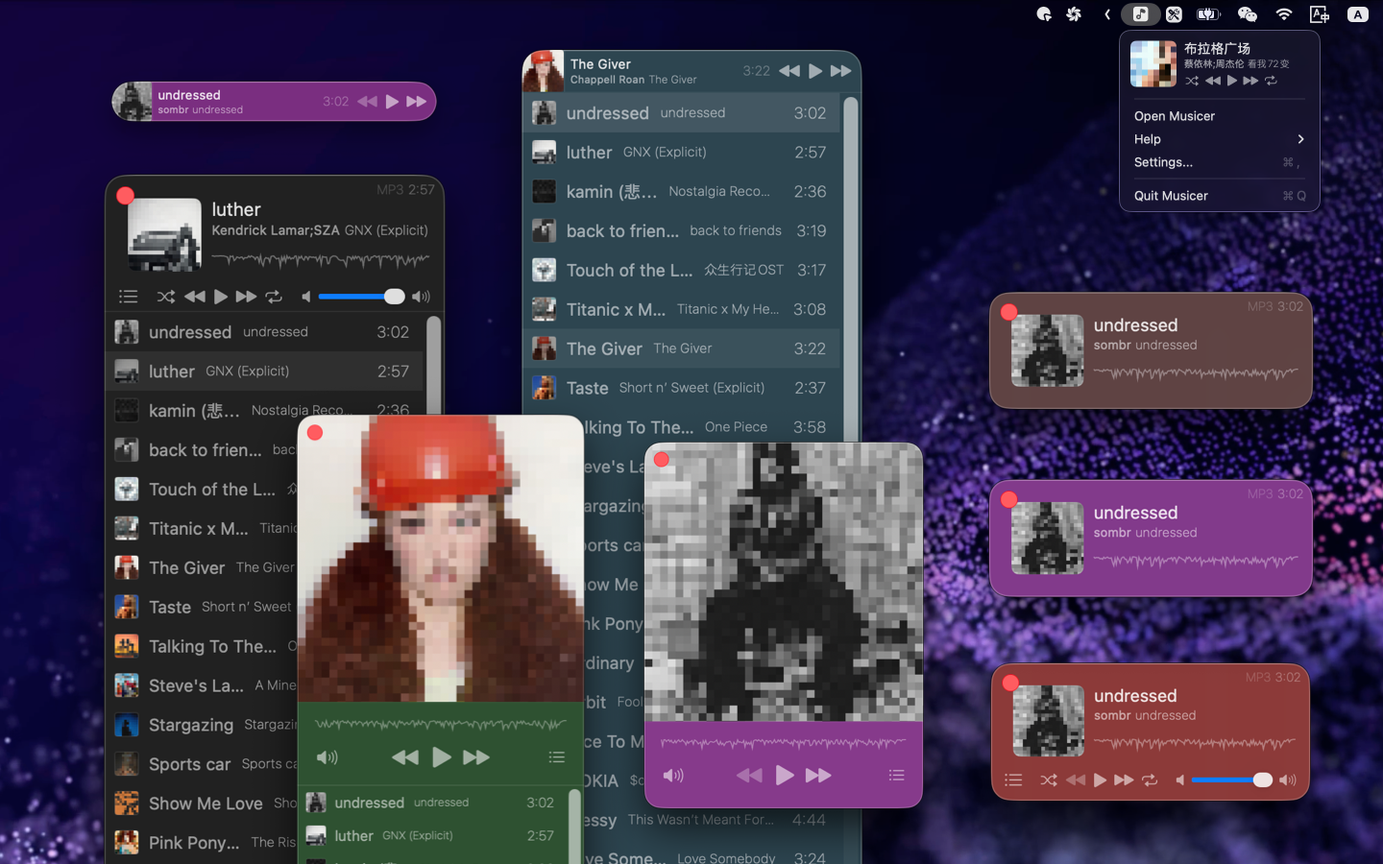
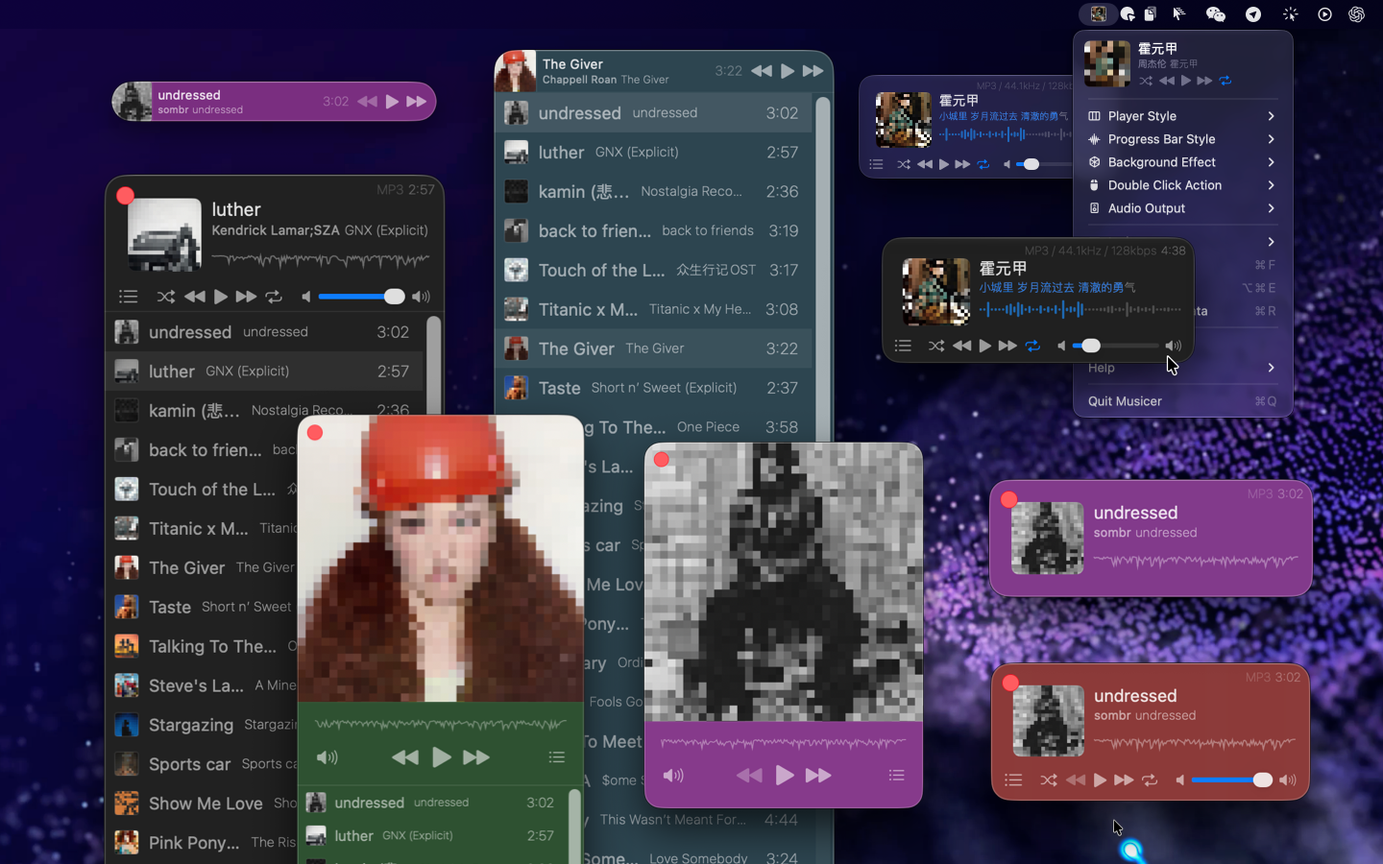
released v3.8.0 1bbac2d6a4815d051cbc2026ce11907c160a5230

diff --git a/CHANGELOG.html b/CHANGELOG.html
@@ -4,21 +4,21 @@
     <meta charset="UTF-8">
     <meta http-equiv="X-UA-Compatible" content="IE=edge">
     <meta name="viewport" content="width=device-width, initial-scale=1.0">
-    <title>Changelog Musicer v3.7.0</title>
+    <title>Changelog Musicer v3.8.0</title>
     <meta name="description" content="迷你便捷的本地音乐播放器，轻巧实用，专为播放本地音频而设计，支持多种常见音频格式，随时随地畅听您的音乐！">
     <meta name="keywords" content="music,player,local,audio,offline,waveform,mini,toolbar">
     <meta name="author" content="Kenny Wong">
-    <meta property="og:site_name" content="Musicer <sup>v3.7.0</sup>">
+    <meta property="og:site_name" content="Musicer <sup>v3.8.0</sup>">
     <meta property="og:url" content="https://wangchujiang.com/musicer/CHANGELOG.html">
     <meta property="og:image" content="https://wangchujiang.com/musicer/assets/social-preview.png">
     <meta property="og:type" content="application">
-    <meta property="og:title" content="Musicer <sup>v3.7.0</sup>">
+    <meta property="og:title" content="Musicer <sup>v3.8.0</sup>">
     <meta property="og:description" content="迷你便捷的本地音乐播放器，轻巧实用，专为播放本地音频而设计，支持多种常见音频格式，随时随地畅听您的音乐！">
     <meta property="twitter:image:src" content="https://wangchujiang.com/musicer/assets/social-preview.png">
     <meta property="twitter:site" content="@jaywcjlove">
     <meta property="twitter:creator" content="jaywcjlove">
     <meta property="twitter:card" content="summary_large_image">
-    <meta property="twitter:title" content="Musicer <sup>v3.7.0</sup> - 迷你便捷的本地音乐播放器，轻巧实用，专为播放本地音频而设计，支持多种常见音频格式，随时随地畅听您的音乐！">
+    <meta property="twitter:title" content="Musicer <sup>v3.8.0</sup> - 迷你便捷的本地音乐播放器，轻巧实用，专为播放本地音频而设计，支持多种常见音频格式，随时随地畅听您的音乐！">
     <meta property="twitter:description" content="迷你便捷的本地音乐播放器，轻巧实用，专为播放本地音频而设计，支持多种常见音频格式，随时随地畅听您的音乐！">
     <meta name="apple-itunes-app" content="app-id=6766860898">
     <link rel="stylesheet" type="text/css" href="css/main.css?v=1.34.4">
@@ -34,8 +34,8 @@
   </head>
   <body id="idoctotop"><a href="#idoctotop" class="gototop">top</a>
     <header class="header">
-      <article class="inner warpper" style="max-width:720px;"><a class="logo" href="index.html"><img alt="Musicer <sup>v3.7.0</sup> logo" src="assets/logo.png">
-<span class="title">Musicer <sup>v3.7.0</sup></span></a>
+      <article class="inner warpper" style="max-width:720px;"><a class="logo" href="index.html"><img alt="Musicer <sup>v3.8.0</sup> logo" src="assets/logo.png">
+<span class="title">Musicer <sup>v3.8.0</sup></span></a>
         <div class="content">
           <ul class="menu">
             <li><a href="index.html" target="" class="">Home</a></li>
@@ -52,6 +52,11 @@
       <markdown-style theme-auto-switch-disabled="">
         <p align="right" style="float: right; bottom: -36px; position: relative;"><a href="./CHANGELOG.zh.html">中文</a></p><!--rehype:style=float: right; bottom: -36px; position: relative;-->
         <h1 id="changelog"><a aria-hidden="true" tabindex="-1" href="#changelog" class="anchor"><span class="icon icon-link"></span></a>Changelog</h1><a target="_blank" href="https://jaywcjlove.github.io/maslink/?id=6745227444" title="Musicer for macOS"><img alt="Musicer AppStore" src="https://jaywcjlove.github.io/sb/download/macos.svg" height="51"></a>
+        <h2 id="v380"><a aria-hidden="true" tabindex="-1" href="#v380" class="anchor"><span class="icon icon-link"></span></a><a href="https://github.com/jaywcjlove/musicer/releases/tag/v3.8.0">v3.8.0</a></h2>
+        <ol>
+          <li>feat: add lyrics display in playback window.</li>
+          <li>style: optimize cover size in status bar.</li>
+        </ol>
         <h2 id="v370"><a aria-hidden="true" tabindex="-1" href="#v370" class="anchor"><span class="icon icon-link"></span></a><a href="https://github.com/jaywcjlove/musicer/releases/tag/v3.7.0">v3.7.0</a></h2>
         <ol>
           <li>feat: add liquid glass effect support for playback window.</li>

diff --git a/CHANGELOG.zh.html b/CHANGELOG.zh.html
@@ -4,21 +4,21 @@
     <meta charset="UTF-8">
     <meta http-equiv="X-UA-Compatible" content="IE=edge">
     <meta name="viewport" content="width=device-width, initial-scale=1.0">
-    <title>更新日志 Musicer v3.7.0</title>
+    <title>更新日志 Musicer v3.8.0</title>
     <meta name="description" content="迷你便捷的本地音乐播放器，轻巧实用，专为播放本地音频而设计，支持多种常见音频格式，随时随地畅听您的音乐！">
     <meta name="keywords" content="music,player,local,audio,offline,waveform,mini,toolbar">
     <meta name="author" content="Kenny Wong">
-    <meta property="og:site_name" content="Musicer <sup>v3.7.0</sup>">
+    <meta property="og:site_name" content="Musicer <sup>v3.8.0</sup>">
     <meta property="og:url" content="https://wangchujiang.com/musicer/CHANGELOG.zh.html">
     <meta property="og:image" content="https://wangchujiang.com/musicer/assets/social-preview.png">
     <meta property="og:type" content="application">
-    <meta property="og:title" content="Musicer <sup>v3.7.0</sup>">
+    <meta property="og:title" content="Musicer <sup>v3.8.0</sup>">
     <meta property="og:description" content="迷你便捷的本地音乐播放器，轻巧实用，专为播放本地音频而设计，支持多种常见音频格式，随时随地畅听您的音乐！">
     <meta property="twitter:image:src" content="https://wangchujiang.com/musicer/assets/social-preview.png">
     <meta property="twitter:site" content="@jaywcjlove">
     <meta property="twitter:creator" content="jaywcjlove">
     <meta property="twitter:card" content="summary_large_image">
-    <meta property="twitter:title" content="Musicer <sup>v3.7.0</sup> - 迷你便捷的本地音乐播放器，轻巧实用，专为播放本地音频而设计，支持多种常见音频格式，随时随地畅听您的音乐！">
+    <meta property="twitter:title" content="Musicer <sup>v3.8.0</sup> - 迷你便捷的本地音乐播放器，轻巧实用，专为播放本地音频而设计，支持多种常见音频格式，随时随地畅听您的音乐！">
     <meta property="twitter:description" content="迷你便捷的本地音乐播放器，轻巧实用，专为播放本地音频而设计，支持多种常见音频格式，随时随地畅听您的音乐！">
     <meta name="apple-itunes-app" content="app-id=6766860898">
     <link rel="stylesheet" type="text/css" href="css/main.css?v=1.34.4">
@@ -34,8 +34,8 @@
   </head>
   <body id="idoctotop"><a href="#idoctotop" class="gototop">top</a>
     <header class="header">
-      <article class="inner warpper" style="max-width:720px;"><a class="logo" href="index.html"><img alt="Musicer <sup>v3.7.0</sup> logo" src="assets/logo.png">
-<span class="title">Musicer <sup>v3.7.0</sup></span></a>
+      <article class="inner warpper" style="max-width:720px;"><a class="logo" href="index.html"><img alt="Musicer <sup>v3.8.0</sup> logo" src="assets/logo.png">
+<span class="title">Musicer <sup>v3.8.0</sup></span></a>
         <div class="content">
           <ul class="menu">
             <li><a href="index.html" target="" class="">Home</a></li>
@@ -52,6 +52,11 @@
       <markdown-style theme-auto-switch-disabled="">
         <p align="right" style="float: right; bottom: -36px; position: relative;"><a href="./CHANGELOG.html">English</a></p><!--rehype:style=float: right; bottom: -36px; position: relative;-->
         <h1 id="更新日志"><a aria-hidden="true" tabindex="-1" href="#更新日志" class="anchor"><span class="icon icon-link"></span></a>更新日志</h1><a target="_blank" href="https://jaywcjlove.github.io/maslink/?id=6745227444" title="Musicer for macOS"><img alt="Musicer AppStore" src="https://jaywcjlove.github.io/sb/download/macos.svg" height="51"></a>
+        <h2 id="v380"><a aria-hidden="true" tabindex="-1" href="#v380" class="anchor"><span class="icon icon-link"></span></a><a href="https://github.com/jaywcjlove/musicer/releases/tag/v3.8.0">v3.8.0</a></h2>
+        <ol>
+          <li>feat: 在播放窗口新增歌词展示功能</li>
+          <li>style: 优化状态栏封面尺寸</li>
+        </ol>
         <h2 id="v370"><a aria-hidden="true" tabindex="-1" href="#v370" class="anchor"><span class="icon icon-link"></span></a><a href="https://github.com/jaywcjlove/musicer/releases/tag/v3.7.0">v3.7.0</a></h2>
         <ol>
           <li>feat: 播放窗口支持液态玻璃效果</li>

diff --git a/terms-of-service.zh.html b/terms-of-service.zh.html
@@ -4,21 +4,21 @@
     <meta charset="UTF-8">
     <meta http-equiv="X-UA-Compatible" content="IE=edge">
     <meta name="viewport" content="width=device-width, initial-scale=1.0">
-    <title>Musicer 服务条款 Musicer v3.7.0</title>
+    <title>Musicer 服务条款 Musicer v3.8.0</title>
     <meta name="description" content="欢迎使用 Musicer！本服务条款（以下简称“条款”）规范您对 Musicer 应用（以下简称“应用”）的使用。请在使用前仔细阅读本条款。您的使用即表示您同意遵守本条款。">
     <meta name="keywords" content="music,player,local,audio,offline,waveform,mini,toolbar">
     <meta name="author" content="Kenny Wong">
-    <meta property="og:site_name" content="Musicer <sup>v3.7.0</sup>">
+    <meta property="og:site_name" content="Musicer <sup>v3.8.0</sup>">
     <meta property="og:url" content="https://wangchujiang.com/musicer/terms-of-service.zh.html">
     <meta property="og:image" content="https://wangchujiang.com/musicer/assets/social-preview.png">
     <meta property="og:type" content="application">
-    <meta property="og:title" content="Musicer <sup>v3.7.0</sup>">
+    <meta property="og:title" content="Musicer <sup>v3.8.0</sup>">
     <meta property="og:description" content="欢迎使用 Musicer！本服务条款（以下简称“条款”）规范您对 Musicer 应用（以下简称“应用”）的使用。请在使用前仔细阅读本条款。您的使用即表示您同意遵守本条款。">
     <meta property="twitter:image:src" content="https://wangchujiang.com/musicer/assets/social-preview.png">
     <meta property="twitter:site" content="@jaywcjlove">
     <meta property="twitter:creator" content="jaywcjlove">
     <meta property="twitter:card" content="summary_large_image">
-    <meta property="twitter:title" content="Musicer <sup>v3.7.0</sup> - 欢迎使用 Musicer！本服务条款（以下简称“条款”）规范您对 Musicer 应用（以下简称“应用”）的使用。请在使用前仔细阅读本条款。您的使用即表示您同意遵守本条款。">
+    <meta property="twitter:title" content="Musicer <sup>v3.8.0</sup> - 欢迎使用 Musicer！本服务条款（以下简称“条款”）规范您对 Musicer 应用（以下简称“应用”）的使用。请在使用前仔细阅读本条款。您的使用即表示您同意遵守本条款。">
     <meta property="twitter:description" content="欢迎使用 Musicer！本服务条款（以下简称“条款”）规范您对 Musicer 应用（以下简称“应用”）的使用。请在使用前仔细阅读本条款。您的使用即表示您同意遵守本条款。">
     <meta name="apple-itunes-app" content="app-id=6766860898">
     <link rel="stylesheet" type="text/css" href="css/main.css?v=1.34.4">
@@ -34,8 +34,8 @@
   </head>
   <body id="idoctotop"><a href="#idoctotop" class="gototop">top</a>
     <header class="header">
-      <article class="inner warpper" style="max-width:720px;"><a class="logo" href="index.html"><img alt="Musicer <sup>v3.7.0</sup> logo" src="assets/logo.png">
-<span class="title">Musicer <sup>v3.7.0</sup></span></a>
+      <article class="inner warpper" style="max-width:720px;"><a class="logo" href="index.html"><img alt="Musicer <sup>v3.8.0</sup> logo" src="assets/logo.png">
+<span class="title">Musicer <sup>v3.8.0</sup></span></a>
         <div class="content">
           <ul class="menu">
             <li><a href="index.html" target="" class="">Home</a></li>

diff --git a/privacy-policy.zh.html b/privacy-policy.zh.html
@@ -4,21 +4,21 @@
     <meta charset="UTF-8">
     <meta http-equiv="X-UA-Compatible" content="IE=edge">
     <meta name="viewport" content="width=device-width, initial-scale=1.0">
-    <title>隐私政策 Musicer v3.7.0</title>
+    <title>隐私政策 Musicer v3.8.0</title>
     <meta name="description" content="感谢您使用 Musicer！我们非常重视您的隐私，并承诺保护您在使用我们的工具时提供的任何个人信息。本隐私政策详细说明了我们如何收集、使用、披露和保护您的信息。">
     <meta name="keywords" content="music,player,local,audio,offline,waveform,mini,toolbar">
     <meta name="author" content="Kenny Wong">
-    <meta property="og:site_name" content="Musicer <sup>v3.7.0</sup>">
+    <meta property="og:site_name" content="Musicer <sup>v3.8.0</sup>">
     <meta property="og:url" content="https://wangchujiang.com/musicer/privacy-policy.zh.html">
     <meta property="og:image" content="https://wangchujiang.com/musicer/assets/social-preview.png">
     <meta property="og:type" content="application">
-    <meta property="og:title" content="Musicer <sup>v3.7.0</sup>">
+    <meta property="og:title" content="Musicer <sup>v3.8.0</sup>">
     <meta property="og:description" content="感谢您使用 Musicer！我们非常重视您的隐私，并承诺保护您在使用我们的工具时提供的任何个人信息。本隐私政策详细说明了我们如何收集、使用、披露和保护您的信息。">
     <meta property="twitter:image:src" content="https://wangchujiang.com/musicer/assets/social-preview.png">
     <meta property="twitter:site" content="@jaywcjlove">
     <meta property="twitter:creator" content="jaywcjlove">
     <meta property="twitter:card" content="summary_large_image">
-    <meta property="twitter:title" content="Musicer <sup>v3.7.0</sup> - 感谢您使用 Musicer！我们非常重视您的隐私，并承诺保护您在使用我们的工具时提供的任何个人信息。本隐私政策详细说明了我们如何收集、使用、披露和保护您的信息。">
+    <meta property="twitter:title" content="Musicer <sup>v3.8.0</sup> - 感谢您使用 Musicer！我们非常重视您的隐私，并承诺保护您在使用我们的工具时提供的任何个人信息。本隐私政策详细说明了我们如何收集、使用、披露和保护您的信息。">
     <meta property="twitter:description" content="感谢您使用 Musicer！我们非常重视您的隐私，并承诺保护您在使用我们的工具时提供的任何个人信息。本隐私政策详细说明了我们如何收集、使用、披露和保护您的信息。">
     <meta name="apple-itunes-app" content="app-id=6766860898">
     <link rel="stylesheet" type="text/css" href="css/main.css?v=1.34.4">
@@ -34,8 +34,8 @@
   </head>
   <body id="idoctotop"><a href="#idoctotop" class="gototop">top</a>
     <header class="header">
-      <article class="inner warpper" style="max-width:720px;"><a class="logo" href="index.html"><img alt="Musicer <sup>v3.7.0</sup> logo" src="assets/logo.png">
-<span class="title">Musicer <sup>v3.7.0</sup></span></a>
+      <article class="inner warpper" style="max-width:720px;"><a class="logo" href="index.html"><img alt="Musicer <sup>v3.8.0</sup> logo" src="assets/logo.png">
+<span class="title">Musicer <sup>v3.8.0</sup></span></a>
         <div class="content">
           <ul class="menu">
             <li><a href="index.html" target="" class="">Home</a></li>

diff --git a/feedback.zh.html b/feedback.zh.html
@@ -4,21 +4,21 @@
     <meta charset="UTF-8">
     <meta http-equiv="X-UA-Compatible" content="IE=edge">
     <meta name="viewport" content="width=device-width, initial-scale=1.0">
-    <title>反馈与支持 Musicer v3.7.0</title>
+    <title>反馈与支持 Musicer v3.8.0</title>
     <meta name="description" content="Musicer 是一款迷你便捷的本地音乐播放器，轻巧实用，专为播放本地音频而设计，支持多种常见音频格式，随时随地畅听您的音乐！">
     <meta name="keywords" content="music,player,local,audio,offline,waveform,mini,toolbar">
     <meta name="author" content="Kenny Wong">
-    <meta property="og:site_name" content="Musicer <sup>v3.7.0</sup>">
+    <meta property="og:site_name" content="Musicer <sup>v3.8.0</sup>">
     <meta property="og:url" content="https://wangchujiang.com/musicer/feedback.zh.html">
     <meta property="og:image" content="https://wangchujiang.com/musicer/assets/social-preview.png">
     <meta property="og:type" content="application">
-    <meta property="og:title" content="Musicer <sup>v3.7.0</sup>">
+    <meta property="og:title" content="Musicer <sup>v3.8.0</sup>">
     <meta property="og:description" content="Musicer 是一款迷你便捷的本地音乐播放器，轻巧实用，专为播放本地音频而设计，支持多种常见音频格式，随时随地畅听您的音乐！">
     <meta property="twitter:image:src" content="https://wangchujiang.com/musicer/assets/social-preview.png">
     <meta property="twitter:site" content="@jaywcjlove">
     <meta property="twitter:creator" content="jaywcjlove">
     <meta property="twitter:card" content="summary_large_image">
-    <meta property="twitter:title" content="Musicer <sup>v3.7.0</sup> - Musicer 是一款迷你便捷的本地音乐播放器，轻巧实用，专为播放本地音频而设计，支持多种常见音频格式，随时随地畅听您的音乐！">
+    <meta property="twitter:title" content="Musicer <sup>v3.8.0</sup> - Musicer 是一款迷你便捷的本地音乐播放器，轻巧实用，专为播放本地音频而设计，支持多种常见音频格式，随时随地畅听您的音乐！">
     <meta property="twitter:description" content="Musicer 是一款迷你便捷的本地音乐播放器，轻巧实用，专为播放本地音频而设计，支持多种常见音频格式，随时随地畅听您的音乐！">
     <meta name="apple-itunes-app" content="app-id=6766860898">
     <link rel="stylesheet" type="text/css" href="css/main.css?v=1.34.4">
@@ -34,8 +34,8 @@
   </head>
   <body id="idoctotop"><a href="#idoctotop" class="gototop">top</a>
     <header class="header">
-      <article class="inner warpper" style="max-width:720px;"><a class="logo" href="index.html"><img alt="Musicer <sup>v3.7.0</sup> logo" src="assets/logo.png">
-<span class="title">Musicer <sup>v3.7.0</sup></span></a>
+      <article class="inner warpper" style="max-width:720px;"><a class="logo" href="index.html"><img alt="Musicer <sup>v3.8.0</sup> logo" src="assets/logo.png">
+<span class="title">Musicer <sup>v3.8.0</sup></span></a>
         <div class="content">
           <ul class="menu">
             <li><a href="index.html" target="" class="">Home</a></li>

diff --git a/index.zh.html b/index.zh.html
@@ -4,21 +4,21 @@
     <meta charset="UTF-8">
     <meta http-equiv="X-UA-Compatible" content="IE=edge">
     <meta name="viewport" content="width=device-width, initial-scale=1.0">
-    <title>Musicer 你便捷的本地音乐播放器 Musicer v3.7.0</title>
+    <title>Musicer 你便捷的本地音乐播放器 Musicer v3.8.0</title>
     <meta name="description" content="迷你便捷的本地音乐播放器，轻巧实用，专为播放本地音频而设计，支持多种常见音频格式，随时随地畅听您的音乐！">
     <meta name="keywords" content="music,player,local,audio,offline,waveform,mini,toolbar">
     <meta name="author" content="Kenny Wong">
-    <meta property="og:site_name" content="Musicer <sup>v3.7.0</sup>">
+    <meta property="og:site_name" content="Musicer <sup>v3.8.0</sup>">
     <meta property="og:url" content="https://wangchujiang.com/musicer/index.zh.html">
     <meta property="og:image" content="https://wangchujiang.com/musicer/assets/social-preview.png">
     <meta property="og:type" content="application">
-    <meta property="og:title" content="Musicer <sup>v3.7.0</sup>">
+    <meta property="og:title" content="Musicer <sup>v3.8.0</sup>">
     <meta property="og:description" content="迷你便捷的本地音乐播放器，轻巧实用，专为播放本地音频而设计，支持多种常见音频格式，随时随地畅听您的音乐！">
     <meta property="twitter:image:src" content="https://wangchujiang.com/musicer/assets/social-preview.png">
     <meta property="twitter:site" content="@jaywcjlove">
     <meta property="twitter:creator" content="jaywcjlove">
     <meta property="twitter:card" content="summary_large_image">
-    <meta property="twitter:title" content="Musicer <sup>v3.7.0</sup> - 迷你便捷的本地音乐播放器，轻巧实用，专为播放本地音频而设计，支持多种常见音频格式，随时随地畅听您的音乐！">
+    <meta property="twitter:title" content="Musicer <sup>v3.8.0</sup> - 迷你便捷的本地音乐播放器，轻巧实用，专为播放本地音频而设计，支持多种常见音频格式，随时随地畅听您的音乐！">
     <meta property="twitter:description" content="迷你便捷的本地音乐播放器，轻巧实用，专为播放本地音频而设计，支持多种常见音频格式，随时随地畅听您的音乐！">
     <meta name="apple-itunes-app" content="app-id=6766860898">
     <link rel="stylesheet" type="text/css" href="css/main.css?v=1.34.4">
@@ -34,8 +34,8 @@
   </head>
   <body id="idoctotop"><a href="#idoctotop" class="gototop">top</a>
     <header class="header">
-      <article class="inner warpper" style="max-width:720px;"><a class="logo" href="index.html"><img alt="Musicer <sup>v3.7.0</sup> logo" src="assets/logo.png">
-<span class="title">Musicer <sup>v3.7.0</sup></span></a>
+      <article class="inner warpper" style="max-width:720px;"><a class="logo" href="index.html"><img alt="Musicer <sup>v3.8.0</sup> logo" src="assets/logo.png">
+<span class="title">Musicer <sup>v3.8.0</sup></span></a>
         <div class="content">
           <ul class="menu">
             <li><a href="index.html" target="" class="">Home</a></li>

diff --git a/index.html b/index.html
@@ -4,21 +4,21 @@
     <meta charset="UTF-8">
     <meta http-equiv="X-UA-Compatible" content="IE=edge">
     <meta name="viewport" content="width=device-width, initial-scale=1.0">
-    <title>Musicer - Mini and convenient local music player Musicer v3.7.0</title>
+    <title>Musicer - Mini and convenient local music player Musicer v3.8.0</title>
     <meta name="description" content="Mini and convenient local music player, lightweight and practical, specially designed for playing local audio, supports ">
     <meta name="keywords" content="music,player,local,audio,offline,waveform,mini,toolbar">
     <meta name="author" content="Kenny Wong">
-    <meta property="og:site_name" content="Musicer <sup>v3.7.0</sup>">
+    <meta property="og:site_name" content="Musicer <sup>v3.8.0</sup>">
     <meta property="og:url" content="https://wangchujiang.com/musicer/index.html">
     <meta property="og:image" content="https://wangchujiang.com/musicer/assets/social-preview.png">
     <meta property="og:type" content="application">
-    <meta property="og:title" content="Musicer <sup>v3.7.0</sup>">
+    <meta property="og:title" content="Musicer <sup>v3.8.0</sup>">
     <meta property="og:description" content="Mini and convenient local music player, lightweight and practical, specially designed for playing local audio, supports ">
     <meta property="twitter:image:src" content="https://wangchujiang.com/musicer/assets/social-preview.png">
     <meta property="twitter:site" content="@jaywcjlove">
     <meta property="twitter:creator" content="jaywcjlove">
     <meta property="twitter:card" content="summary_large_image">
-    <meta property="twitter:title" content="Musicer <sup>v3.7.0</sup> - Mini and convenient local music player, lightweight and practical, specially designed for playing local audio, supports ">
+    <meta property="twitter:title" content="Musicer <sup>v3.8.0</sup> - Mini and convenient local music player, lightweight and practical, specially designed for playing local audio, supports ">
     <meta property="twitter:description" content="Mini and convenient local music player, lightweight and practical, specially designed for playing local audio, supports ">
     <meta name="apple-itunes-app" content="app-id=6766860898">
     <link rel="stylesheet" type="text/css" href="css/main.css?v=1.34.4">
@@ -34,8 +34,8 @@
   </head>
   <body id="idoctotop"><a href="#idoctotop" class="gototop">top</a>
     <header class="header">
-      <article class="inner warpper" style="max-width:720px;"><a class="logo" href="index.html"><img alt="Musicer <sup>v3.7.0</sup> logo" src="assets/logo.png">
-<span class="title">Musicer <sup>v3.7.0</sup></span></a>
+      <article class="inner warpper" style="max-width:720px;"><a class="logo" href="index.html"><img alt="Musicer <sup>v3.8.0</sup> logo" src="assets/logo.png">
+<span class="title">Musicer <sup>v3.8.0</sup></span></a>
         <div class="content">
           <ul class="menu">
             <li><a href="index.html" target="" class="active">Home</a></li>

diff --git a/terms-of-service.html b/terms-of-service.html
@@ -4,21 +4,21 @@
     <meta charset="UTF-8">
     <meta http-equiv="X-UA-Compatible" content="IE=edge">
     <meta name="viewport" content="width=device-width, initial-scale=1.0">
-    <title>Musicer Terms of Service Musicer v3.7.0</title>
+    <title>Musicer Terms of Service Musicer v3.8.0</title>
     <meta name="description" content="Welcome to Musicer! These Terms of Service (hereinafter referred to as “Terms”) govern your use of the Musicer applicati">
     <meta name="keywords" content="music,player,local,audio,offline,waveform,mini,toolbar">
     <meta name="author" content="Kenny Wong">
-    <meta property="og:site_name" content="Musicer <sup>v3.7.0</sup>">
+    <meta property="og:site_name" content="Musicer <sup>v3.8.0</sup>">
     <meta property="og:url" content="https://wangchujiang.com/musicer/terms-of-service.html">
     <meta property="og:image" content="https://wangchujiang.com/musicer/assets/social-preview.png">
     <meta property="og:type" content="application">
-    <meta property="og:title" content="Musicer <sup>v3.7.0</sup>">
+    <meta property="og:title" content="Musicer <sup>v3.8.0</sup>">
     <meta property="og:description" content="Welcome to Musicer! These Terms of Service (hereinafter referred to as “Terms”) govern your use of the Musicer applicati">
     <meta property="twitter:image:src" content="https://wangchujiang.com/musicer/assets/social-preview.png">
     <meta property="twitter:site" content="@jaywcjlove">
     <meta property="twitter:creator" content="jaywcjlove">
     <meta property="twitter:card" content="summary_large_image">
-    <meta property="twitter:title" content="Musicer <sup>v3.7.0</sup> - Welcome to Musicer! These Terms of Service (hereinafter referred to as “Terms”) govern your use of the Musicer applicati">
+    <meta property="twitter:title" content="Musicer <sup>v3.8.0</sup> - Welcome to Musicer! These Terms of Service (hereinafter referred to as “Terms”) govern your use of the Musicer applicati">
     <meta property="twitter:description" content="Welcome to Musicer! These Terms of Service (hereinafter referred to as “Terms”) govern your use of the Musicer applicati">
     <meta name="apple-itunes-app" content="app-id=6766860898">
     <link rel="stylesheet" type="text/css" href="css/main.css?v=1.34.4">
@@ -34,8 +34,8 @@
   </head>
   <body id="idoctotop"><a href="#idoctotop" class="gototop">top</a>
     <header class="header">
-      <article class="inner warpper" style="max-width:720px;"><a class="logo" href="index.html"><img alt="Musicer <sup>v3.7.0</sup> logo" src="assets/logo.png">
-<span class="title">Musicer <sup>v3.7.0</sup></span></a>
+      <article class="inner warpper" style="max-width:720px;"><a class="logo" href="index.html"><img alt="Musicer <sup>v3.8.0</sup> logo" src="assets/logo.png">
+<span class="title">Musicer <sup>v3.8.0</sup></span></a>
         <div class="content">
           <ul class="menu">
             <li><a href="index.html" target="" class="">Home</a></li>

diff --git a/feedback.html b/feedback.html
@@ -4,21 +4,21 @@
     <meta charset="UTF-8">
     <meta http-equiv="X-UA-Compatible" content="IE=edge">
     <meta name="viewport" content="width=device-width, initial-scale=1.0">
-    <title>Feedback &#x26; Support Musicer v3.7.0</title>
+    <title>Feedback &#x26; Support Musicer v3.8.0</title>
     <meta name="description" content="Musicer is a mini and convenient local music player, lightweight and practical, specially designed for playing local aud">
     <meta name="keywords" content="music,player,local,audio,offline,waveform,mini,toolbar">
     <meta name="author" content="Kenny Wong">
-    <meta property="og:site_name" content="Musicer <sup>v3.7.0</sup>">
+    <meta property="og:site_name" content="Musicer <sup>v3.8.0</sup>">
     <meta property="og:url" content="https://wangchujiang.com/musicer/feedback.html">
     <meta property="og:image" content="https://wangchujiang.com/musicer/assets/social-preview.png">
     <meta property="og:type" content="application">
-    <meta property="og:title" content="Musicer <sup>v3.7.0</sup>">
+    <meta property="og:title" content="Musicer <sup>v3.8.0</sup>">
     <meta property="og:description" content="Musicer is a mini and convenient local music player, lightweight and practical, specially designed for playing local aud">
     <meta property="twitter:image:src" content="https://wangchujiang.com/musicer/assets/social-preview.png">
     <meta property="twitter:site" content="@jaywcjlove">
     <meta property="twitter:creator" content="jaywcjlove">
     <meta property="twitter:card" content="summary_large_image">
-    <meta property="twitter:title" content="Musicer <sup>v3.7.0</sup> - Musicer is a mini and convenient local music player, lightweight and practical, specially designed for playing local aud">
+    <meta property="twitter:title" content="Musicer <sup>v3.8.0</sup> - Musicer is a mini and convenient local music player, lightweight and practical, specially designed for playing local aud">
     <meta property="twitter:description" content="Musicer is a mini and convenient local music player, lightweight and practical, specially designed for playing local aud">
     <meta name="apple-itunes-app" content="app-id=6766860898">
     <link rel="stylesheet" type="text/css" href="css/main.css?v=1.34.4">
@@ -34,8 +34,8 @@
   </head>
   <body id="idoctotop"><a href="#idoctotop" class="gototop">top</a>
     <header class="header">
-      <article class="inner warpper" style="max-width:720px;"><a class="logo" href="index.html"><img alt="Musicer <sup>v3.7.0</sup> logo" src="assets/logo.png">
-<span class="title">Musicer <sup>v3.7.0</sup></span></a>
+      <article class="inner warpper" style="max-width:720px;"><a class="logo" href="index.html"><img alt="Musicer <sup>v3.8.0</sup> logo" src="assets/logo.png">
+<span class="title">Musicer <sup>v3.8.0</sup></span></a>
         <div class="content">
           <ul class="menu">
             <li><a href="index.html" target="" class="">Home</a></li>

diff --git a/privacy-policy.html b/privacy-policy.html
@@ -4,21 +4,21 @@
     <meta charset="UTF-8">
     <meta http-equiv="X-UA-Compatible" content="IE=edge">
     <meta name="viewport" content="width=device-width, initial-scale=1.0">
-    <title>Privacy Policy Musicer v3.7.0</title>
+    <title>Privacy Policy Musicer v3.8.0</title>
     <meta name="description" content="Thank you for using Musicer! We highly value your privacy and are committed to protecting any personal information you p">
     <meta name="keywords" content="music,player,local,audio,offline,waveform,mini,toolbar">
     <meta name="author" content="Kenny Wong">
-    <meta property="og:site_name" content="Musicer <sup>v3.7.0</sup>">
+    <meta property="og:site_name" content="Musicer <sup>v3.8.0</sup>">
     <meta property="og:url" content="https://wangchujiang.com/musicer/privacy-policy.html">
     <meta property="og:image" content="https://wangchujiang.com/musicer/assets/social-preview.png">
     <meta property="og:type" content="application">
-    <meta property="og:title" content="Musicer <sup>v3.7.0</sup>">
+    <meta property="og:title" content="Musicer <sup>v3.8.0</sup>">
     <meta property="og:description" content="Thank you for using Musicer! We highly value your privacy and are committed to protecting any personal information you p">
     <meta property="twitter:image:src" content="https://wangchujiang.com/musicer/assets/social-preview.png">
     <meta property="twitter:site" content="@jaywcjlove">
     <meta property="twitter:creator" content="jaywcjlove">
     <meta property="twitter:card" content="summary_large_image">
-    <meta property="twitter:title" content="Musicer <sup>v3.7.0</sup> - Thank you for using Musicer! We highly value your privacy and are committed to protecting any personal information you p">
+    <meta property="twitter:title" content="Musicer <sup>v3.8.0</sup> - Thank you for using Musicer! We highly value your privacy and are committed to protecting any personal information you p">
     <meta property="twitter:description" content="Thank you for using Musicer! We highly value your privacy and are committed to protecting any personal information you p">
     <meta name="apple-itunes-app" content="app-id=6766860898">
     <link rel="stylesheet" type="text/css" href="css/main.css?v=1.34.4">
@@ -34,8 +34,8 @@
   </head>
   <body id="idoctotop"><a href="#idoctotop" class="gototop">top</a>
     <header class="header">
-      <article class="inner warpper" style="max-width:720px;"><a class="logo" href="index.html"><img alt="Musicer <sup>v3.7.0</sup> logo" src="assets/logo.png">
-<span class="title">Musicer <sup>v3.7.0</sup></span></a>
+      <article class="inner warpper" style="max-width:720px;"><a class="logo" href="index.html"><img alt="Musicer <sup>v3.8.0</sup> logo" src="assets/logo.png">
+<span class="title">Musicer <sup>v3.8.0</sup></span></a>
         <div class="content">
           <ul class="menu">
             <li><a href="index.html" target="" class="">Home</a></li>
